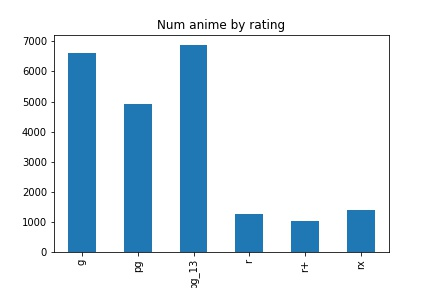
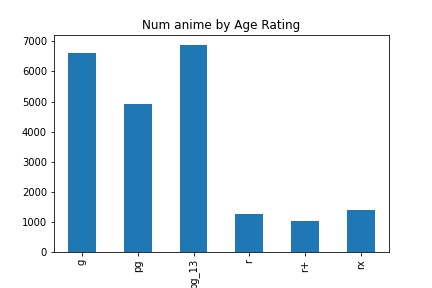
bug fix

Changed region(s): [[0.331, 0.0625, 0.6921, 0.125]]

diff --git a/rating_trends.py b/rating_trends.py
@@ -1,19 +1,14 @@
-## List of outputs
-## outputs/rating_count.jpeg,  outputs/rating_num_anime_vs_year.jpeg, 
-# outputs/rating_vs_average_episode_duration.jpeg, 
-# outputs/rating_vs_mean.jpeg, outputs/rating_vs_num_episodes.jpeg, 
-# outputs/rating_vs_num_list_users.jpeg,
-# outputs/rating_vs_popularity.jpeg, outputs/rating_vs_rank.jpeg
-
 # %%
 import pandas as pd
 import json
 import matplotlib as plt
 
+
 # %%
 def savePlot(plot, name):
     fig = plot.get_figure()
     fig.savefig("outputs/" + name + '.jpeg')
+
 
 # %%
 path_in_str = 'data/anime_list_final_231.json'
@@ -24,32 +19,58 @@ df = df[df['error'] != 'not_found']
 df.dropna(subset=['rating'], inplace=True)
 df['start_date']= pd.to_datetime(df['start_date'])
 
+
 # %%
 df1 = df.groupby(['start_date', 'rating'], as_index=False)['id'].count()
 df1.rename({'id': 'anime_count'}, axis=1, inplace=True)
 df1 = df1.pivot(index='start_date', columns='rating', values='anime_count')
+
 
 # %%
 # Grouping by year to make the plot smoother
 plot = df1.groupby([(df1.index.year)]).sum().plot(title='Number of anime started by rating by year')
 savePlot(plot, 'rating_num_anime_vs_year')
 
-# %%
-df2 = df.groupby(['rating'])['popularity'].mean()
-savePlot(df2.plot(kind='bar', title = 'Mean popularity by rating'), 'rating_vs_popularity')
 
 # %%
-def generateHistogram(field):
+df2 = df.groupby(['rating'])['popularity'].mean()
+savePlot(df2.plot(kind='bar', title = 'Mean popularity by Age Rating'), 'rating_vs_popularity')
+
+
+# %%
+def generateHistogram(field, title):
     df2 = df.groupby(['rating'])[field].mean()
-    savePlot(df2.plot(kind='bar', title = 'Mean ' + field + ' by rating'), 'rating_vs_' + field)
+    plot = df2.plot(kind='bar', title = title + ' by Age Rating', legend=False)
+    savePlot(plot, 'rating_vs_' + field)
+
 
 # %%
 df3 = df.groupby(['rating'])['id'].count()
-savePlot(df3.plot(kind='bar', title = 'Num anime by rating'), 'rating_count')
+savePlot(df3.plot(kind='bar', title = 'Num anime by Age Rating'), 'rating_count')
+
 
 # %%
-plot_fields = ['mean', 'rank', 'num_list_users', 'num_episodes','average_episode_duration']
-for field in plot_fields:
-    generateHistogram(field)
+generateHistogram('num_list_users', 'Number of Listed Users')
+
+# %%
+generateHistogram('num_episodes', 'Avg Number of Episodes')
+
+# %%
+df['average_episode_duration'] /= 60
+generateHistogram('average_episode_duration', 'Avg Episode Duration')
+
+# %%
+generateHistogram('mean', 'Avg Score')
+
+# %%
+generateHistogram('rank', 'Avg Rank')
+
+# %%
+# plot_fields = ['mean', 'rank', 'num_list_users', 'num_episodes','average_episode_duration']
+# for field in plot_fields:
+    # generateHistogram(field)
+
+
+
 
 

diff --git a/anime_num.py b/anime_num.py
@@ -13,6 +13,7 @@ df = df[df['error'] != 'not_found']
 
 # %%
 df['start_date']= pd.to_datetime(df['start_date'])
+# df = df[df['start_date'].dt.year < 2022]
 
 # %%
 df1 = df.groupby('start_date', as_index=False)['id'].count()
@@ -26,6 +27,6 @@ df1.rename({'id': 'anime_count'}, axis=1, inplace=True)
 # %%
 # plot = df1.plot()
 # Grouping by year to make the plot smoother
-plot = df1.groupby([(df1.index.year)]).sum().plot()
+plot = df1.groupby([(df1.index.year)]).sum().plot(title='Number of anime started vs year')
 fig = plot.get_figure()
 fig.savefig("outputs/num_anime_vs_year.jpeg")
